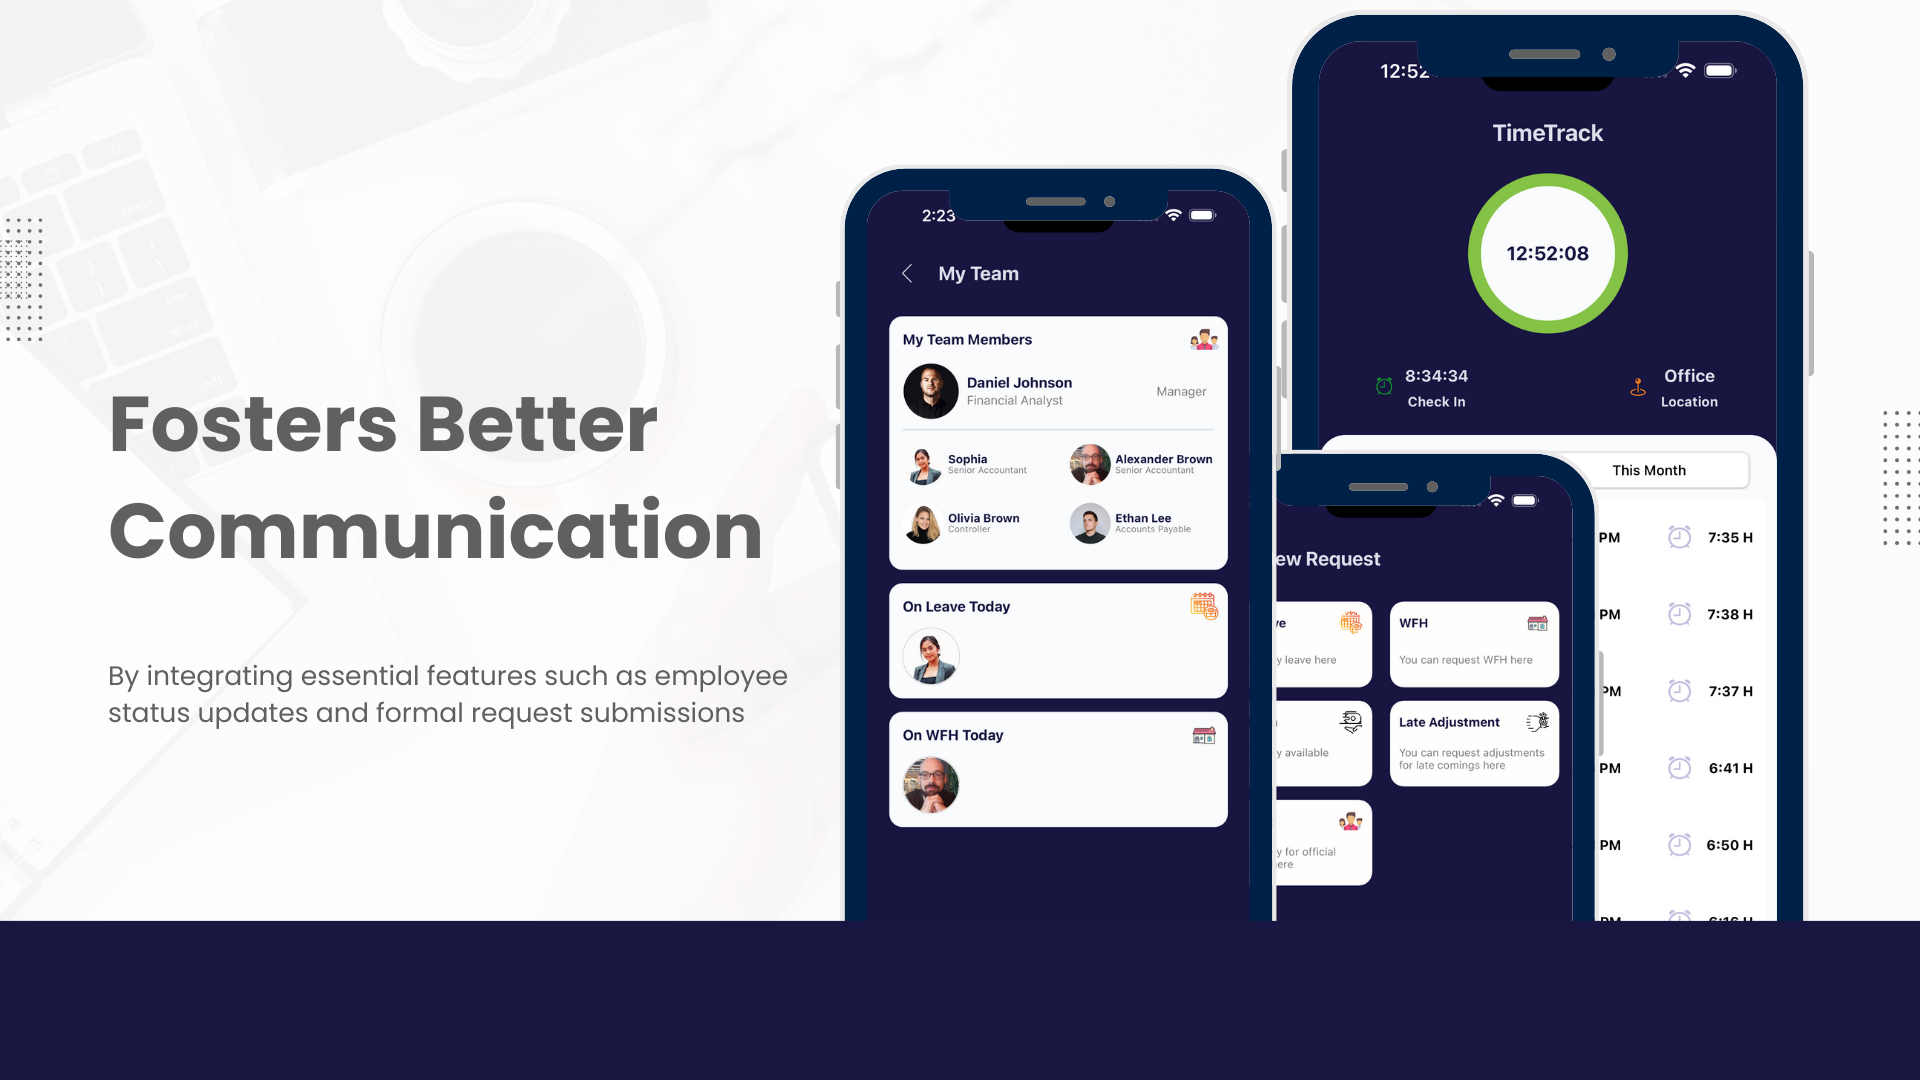
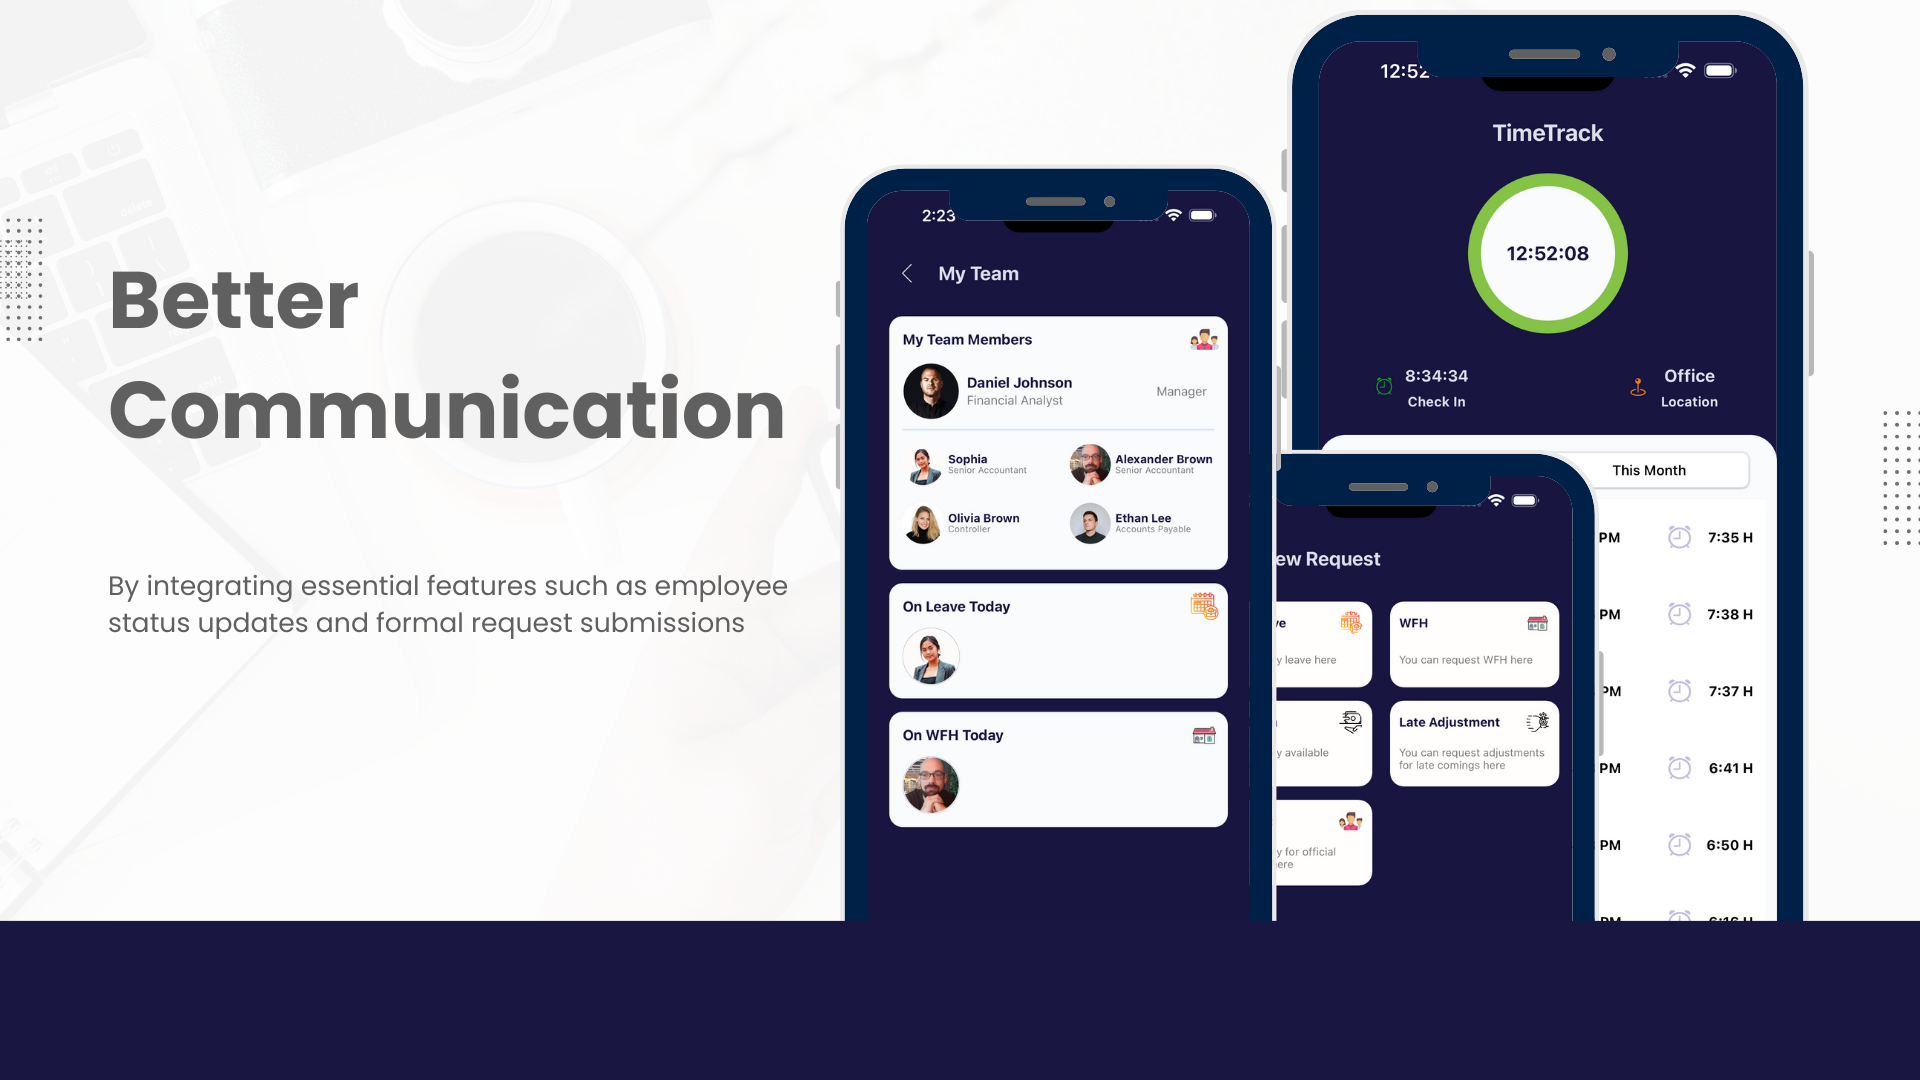
Add latest blogs. Changes exp section and footer.

diff --git a/_pages/index.html b/_pages/index.html
@@ -56,7 +56,7 @@ permalink: /
     <h1 class="title">Featured Projects</h1>
     <p class="section__text__p1">Recently Contributed Projects</p>
     <div id="flex-container" class="project-list">
-      {% assign projects = 'clothing-store,jafro-homes,catchfishy' | split: ','
+      {% assign projects = 'clothing-store,jafro-homes,my-hr' | split: ','
       %} {% for project in site.data.projects %} {% if projects contains
       project[0] %}
       <div class="flex-item">
@@ -106,7 +106,7 @@ permalink: /
               class="icon"
             />
             <h3>Experience</h3>
-            <p>8+ years <br />Mobile Application Development</p>
+            <p>9+ years <br />Mobile Application Development</p>
           </div>
           <div class="details-container">
             <img

diff --git a/_pages/projects.html b/_pages/projects.html
@@ -14,7 +14,7 @@ permalink: /projects
     
     <div class="project-list">
       {% for project in site.data.projects %} 
-        {% include project.html %} 
+        {% include project.html %}
       {% endfor %}
     </div>
   </section>

diff --git a/_includes/footer.html b/_includes/footer.html
@@ -1,3 +1,3 @@
 <footer>
-    <p>Copyright &copy; 2024 Thushantha Fernando</p>
+    <p>Copyright &copy; 2025 Thushantha Fernando</p>
 </footer>

diff --git a/_projects/scientists.md b/_projects/scientists.md
@@ -1,0 +1,18 @@
+---
+hasThumbnail: true
+
+visit: 
+  - anchorText: "Live Simulation"
+    link: "https://drive.google.com/file/d/1YExIlQwPBkXIldUZq7RhI0BfHNM7rXdj/view"
+
+  - anchorText: "View on GitHub"
+    link: "https://github.com/ThushanthaSFdo/Scientists"
+---
+
+## Background
+
+This project is designed to educate users about influential scientists through an immersive augmented reality experience. By leveraging ARKit and SceneKit, the app allows users to interact with digital content overlaid on real-world images. The application targets educational purposes, making learning about science and history engaging and interactive.
+
+The scientists' data is stored in a JSON file, which includes their names, biographies, and country flags. This modular approach enables easy updates and additions to the dataset without altering the app's core functionality. The user interface is designed to be intuitive, with clear text overlays that provide information in a visually appealing manner.
+
+The project not only aims to enhance knowledge about scientific contributions but also seeks to promote interest in STEM fields among users of all ages. Through this innovative use of technology, the app bridges the gap between education and entertainment, making learning a fun and interactive experience.

diff --git a/_projects/galaxy-saga.md b/_projects/galaxy-saga.md
@@ -1,17 +1,14 @@
 ---
-title: Project Four
-description: This is a detailed description of Project Four.
-technologies:
-  - HTML
-  - CSS
-  - JavaScript
-
 hasThumbnail: true
 
 visit: 
-  - anchorText: "Visit project website"
-    link: "https://genicsblog.com"
+  - anchorText: "Live Simulation"
+    link: "https://drive.google.com/file/d/1Te5UVNRZ2C7iuuPH6OhOEYfVLJ6tjwuD/view"
 
   - anchorText: "View on GitHub"
-    link: "https://github.com/genicsblog"
+    link: "https://github.com/ThushanthaSFdo/GalaxySaga"
 ---
+
+## Background
+
+This space shooter game was developed using Swift to provide an engaging and immersive experience for players. Inspired by classic arcade shooters, it combines modern graphics and intuitive controls to create a dynamic gameplay environment. Players must strategically manage their ship's energy and health while navigating through waves of enemies, enhancing their skills and reflexes. The game aims to deliver not only entertainment but also a sense of achievement as players strive to reach high scores and unlock new challenges. With its captivating design and addictive mechanics, this app is designed for both casual gamers and space enthusiasts alike.

diff --git a/_projects/tic-tac-toe.md b/_projects/tic-tac-toe.md
@@ -1,0 +1,21 @@
+---
+hasThumbnail: true
+
+visit: 
+  - anchorText: "Live Simulation"
+    link: "https://drive.google.com/file/d/1YExIlQwPBkXIldUZq7RhI0BfHNM7rXdj/view"
+
+  - anchorText: "View on GitHub"
+    link: "https://github.com/ThushanthaSFdo/TicTacToe"
+---
+
+## Background
+
+This Tic Tac Toe game was developed to provide a modern twist on the timeless classic. Designed for two players, it emphasizes friendly competition and strategic thinking. The app tracks scores for each session, allowing players to see who reigns supreme. Its user-friendly interface and smooth gameplay make it accessible to everyone, fostering social interaction and enjoyment.
+
+## The future
+
+Future improvements includes;
+- **Single Player Game Option:** Introduce an AI opponent for solo play, allowing users to enjoy the game even when friends are unavailable.
+- **Score History and Player History:** Implement a feature to track scores over multiple sessions, providing players with insights into their performance trends.
+- **Player Profiles:** Create customizable player profiles that store individual statistics, preferences, and achievements, enhancing user engagement and personalization.

diff --git a/_projects/uikit-dashboard.md b/_projects/uikit-dashboard.md
@@ -1,0 +1,11 @@
+---
+hasThumbnail: true
+
+visit:
+  - anchorText: "View on GitHub"
+    link: "https://github.com/ThushanthaSFdo/UIKitDashboard"
+---
+
+## Background
+
+This project was developed as a comprehensive reference for iOS developers exploring the intricacies of UITableViews and UICollectionViews. By showcasing different cell layouts and design patterns, it highlights the versatility of these components in creating engaging user interfaces. The project includes practical examples of UIFlowLayout customization, illustrating how to adapt layouts based on specific requirements and enhance user experience. With a focus on best practices and innovative design approaches, this app serves as an invaluable resource for both novice and experienced developers looking to deepen their knowledge of UIKit and improve their app development skills.

diff --git a/_projects/github-replica.md b/_projects/github-replica.md
@@ -1,0 +1,11 @@
+---
+hasThumbnail: true
+
+visit:
+  - anchorText: "View on GitHub"
+    link: "https://github.com/ThushanthaSFdo/GitHubReplica"
+---
+
+## Background
+
+The app serves as a reference project for developers learning Swift UIKit, emphasizing a programmatic approach to UI design. It demonstrates essential concepts like API integration, JSON parsing, and efficient data handling through image caching and pagination. The use of collection views combined with search functionality allows for an interactive and responsive user interface. By implementing features such as custom alerts and handling empty states, the app provides a comprehensive learning experience for those looking to master UIKit development.
